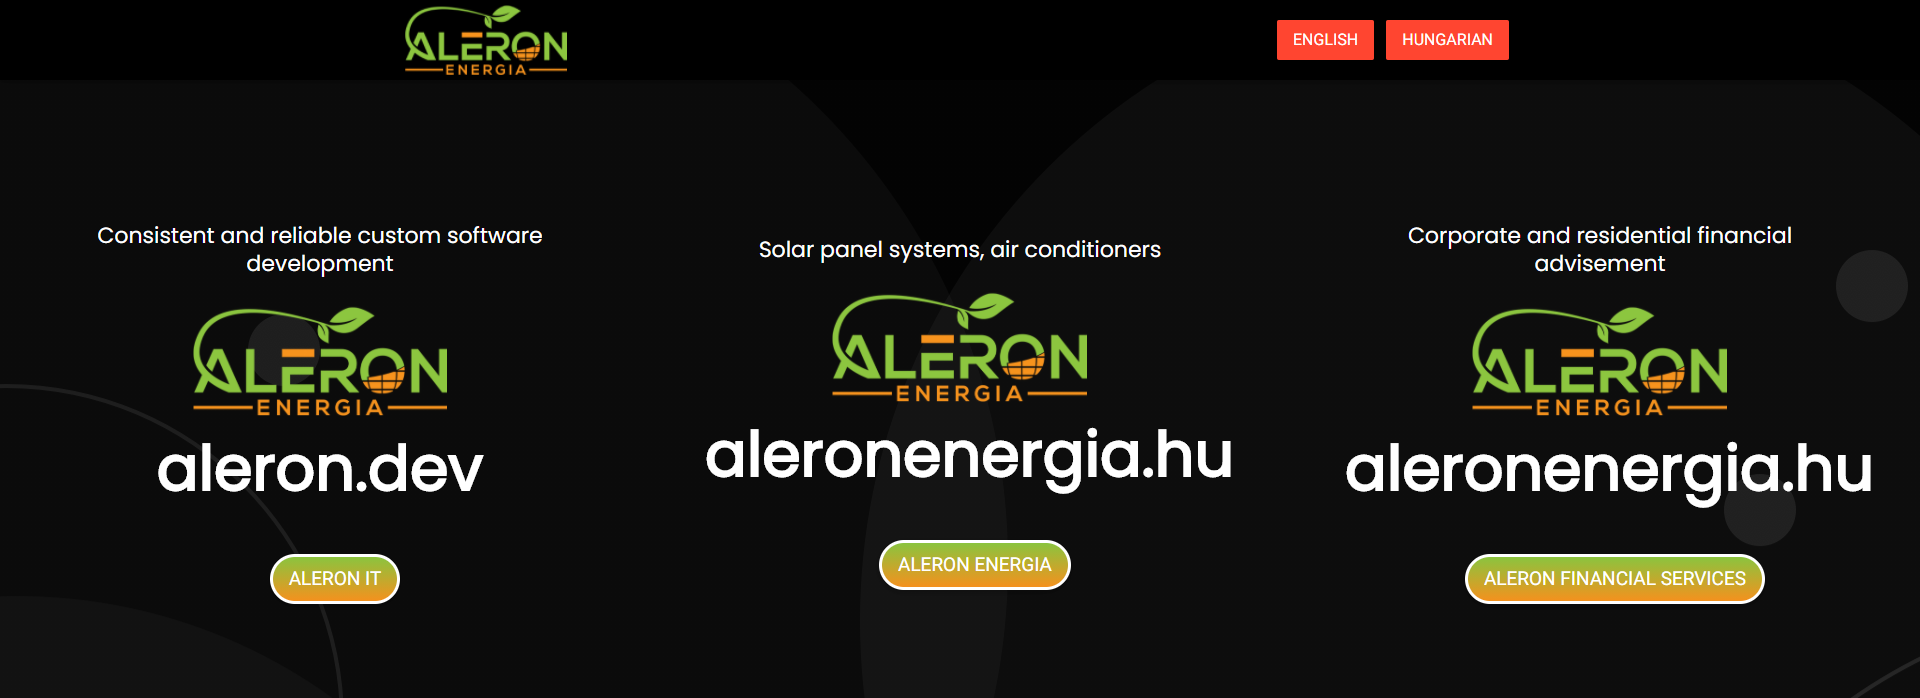
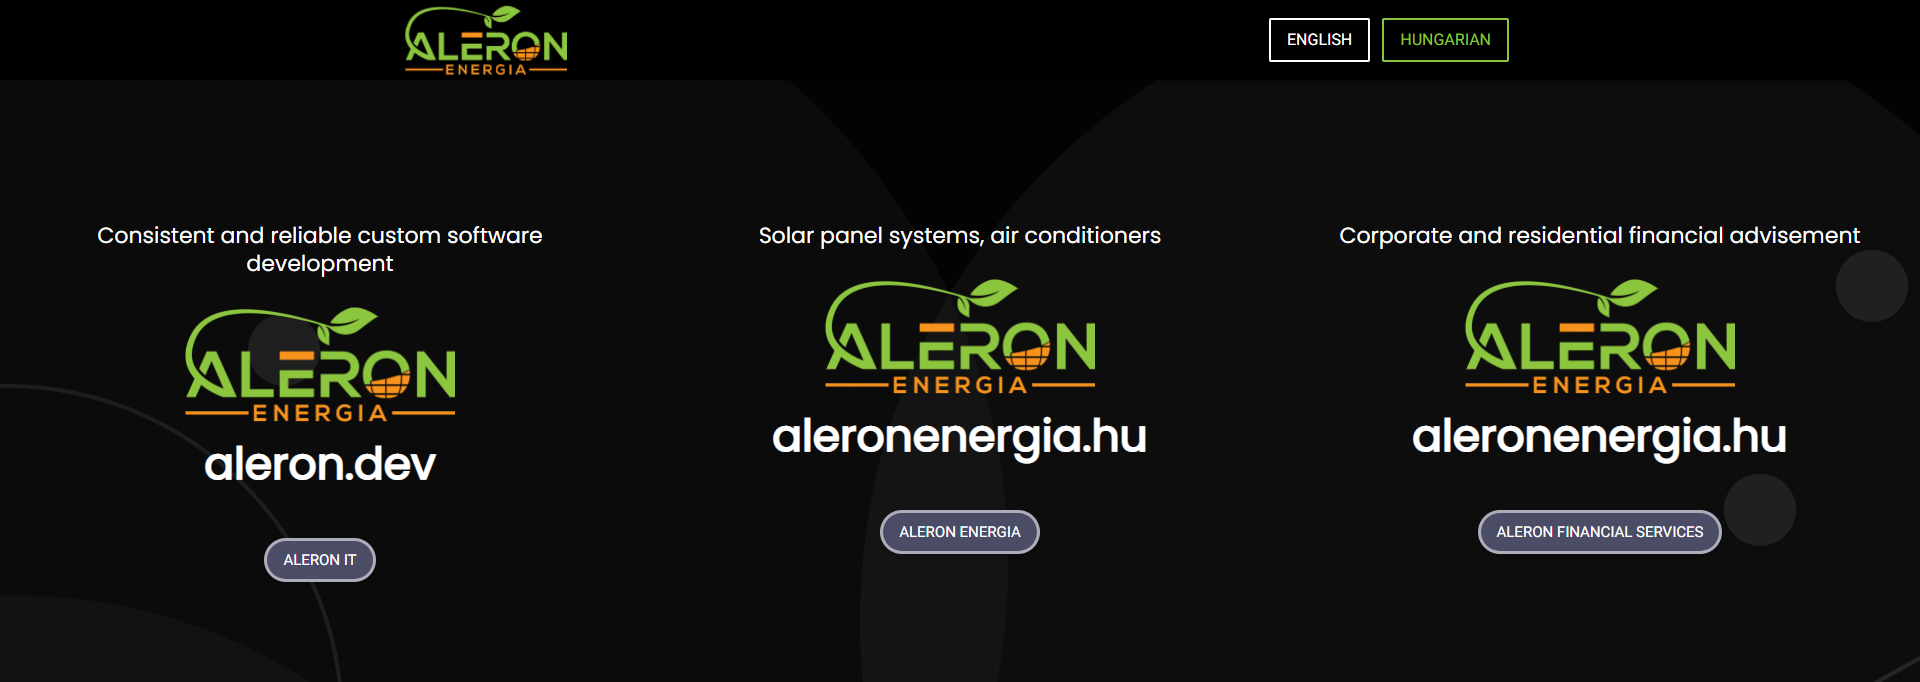
a
a

diff --git a/index.html b/index.html
@@ -65,8 +65,8 @@
     <!-- Header area End here-->
     <div id="junction" >
         <div class="container-fluid">
-            <div class="row align-items-center">
-                <div class="col-md-4">
+            <div class="row ">
+                <div class="col-md-4 p-0">
                     <div class="junction-content">
                         <h2>Consistent and reliable custom software development</h2>
                         <img src="./img/logo.png" alt="">
@@ -75,7 +75,7 @@
                         
                     </div>
                 </div>
-                <div class="col-md-4">
+                <div class="col-md-4 p-0">
                     <div class="junction-content">
                         <h2>Solar panel systems, air conditioners</h2>
                         <img src="./img/logo.png" alt="">
@@ -84,7 +84,7 @@
                         
                     </div>
                 </div>
-                <div class="col-md-4">
+                <div class="col-md-4 p-0">
                     <div class="junction-content">
                         <h2>Corporate and residential financial advisement</h2>
                         <img src="./img/logo.png" alt="">

diff --git a/css/style.css b/css/style.css
@@ -116,6 +116,7 @@ a.btn {
 }
 
 #junction {
+    overflow: hidden;
     background-image: url("../img/Filler.png"), linear-gradient(166deg, rgba(0, 0, 0, 0.99) 0%, rgba(0, 0, 0, 0.99) 100%) !important
 }
 
@@ -123,8 +124,23 @@ a.btn {
     text-align: center;
     color: white;
     padding: 142px 50px 0;
+    
+    
 }
-
+/* #junction .col-md-4::before{
+    position: absolute;
+    content: '';
+    width: 100%;
+    height: 100%;
+    top: 0;
+    left: 0;
+    background: rgb(192, 58, 58);
+    transform: skewX(-10deg);
+    
+} */
+#junction .col-md-4:first-child{}
+#junction .col-md-4:nth-child(2){}
+#junction .col-md-4:last-child{}
 #junction .junction-content h2 {
     font-size: 22px;
     padding-bottom: 20px;
